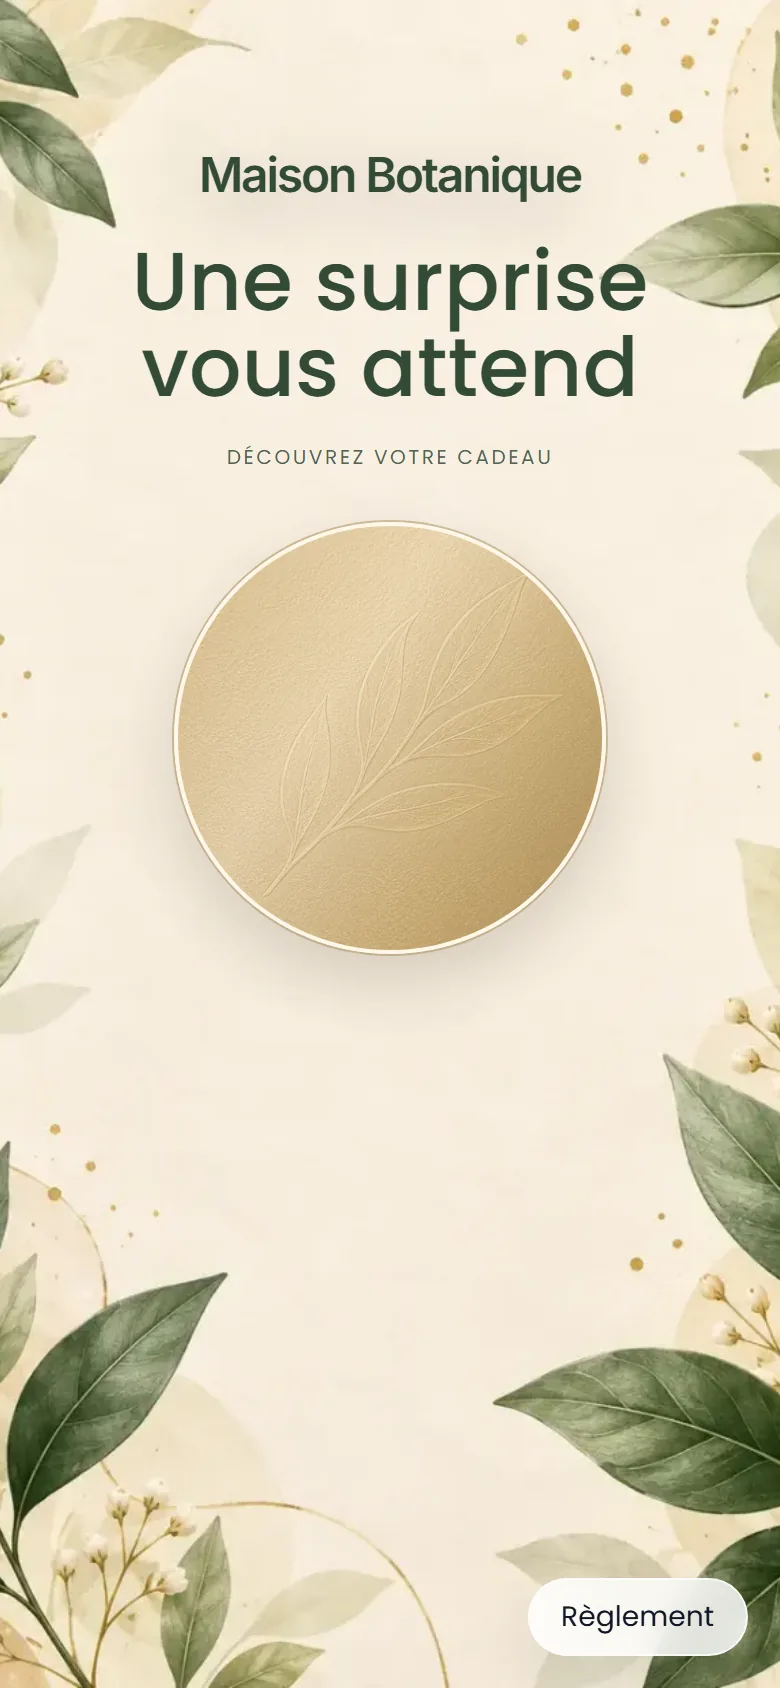
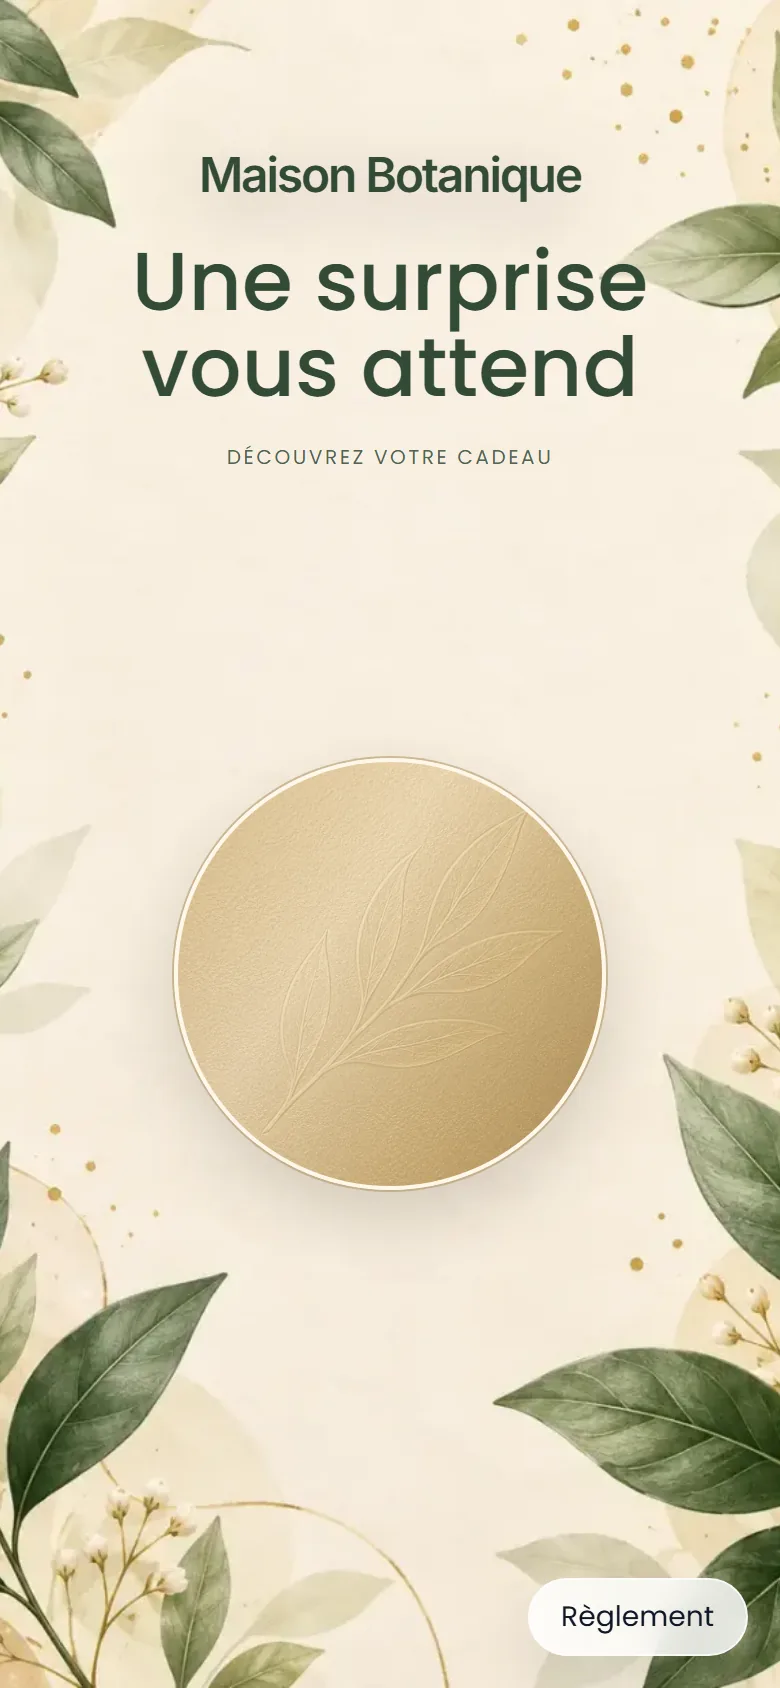
Center scratch ticket layouts and refresh retail example

Changed region(s): [[0.2154, 0.3081, 0.8, 0.7393]]

diff --git a/apps/web-app/src/components/public/immersive-scratch-ticket.tsx b/apps/web-app/src/components/public/immersive-scratch-ticket.tsx
@@ -368,8 +368,8 @@ export function ImmersiveScratchTicket({
     };
   }
 
-  const rootClass = beautyTheme
-    ? `flex flex-col bg-transparent px-6 pb-8 ${fitContainer ? "pt-2" : "pt-[76px]"}`
+  const rootClass = `flex flex-col pb-8 ${fitContainer ? "pt-2" : "pt-[76px]"} ${beautyTheme
+    ? "bg-transparent px-6"
     : isVault || isConfetti
     ? "bg-transparent px-5"
     : isLilac
@@ -378,18 +378,18 @@ export function ImmersiveScratchTicket({
         ? "bg-transparent px-5"
         : isSunburst
           ? "bg-transparent px-0"
-          : "bg-[#111936] px-5";
+          : "bg-[#111936] px-5"}`;
 
   return (
     <div
-    className={`mx-auto w-full ${fitContainer ? "max-w-full" : "max-w-[370px]"} ${beautyTheme ? "flex flex-1 flex-col" : ""}`}
-      style={beautyTheme ? { containerType: "inline-size" } : undefined}
+      className={`mx-auto flex w-full flex-1 flex-col ${fitContainer ? "max-w-full" : "max-w-[370px]"}`}
+      style={{ containerType: "inline-size" }}
     >
       <div
-        className={`relative isolate overflow-hidden ${rootClass} ${beautyTheme ? "flex-1" : ""}`}
-        style={beautyTheme ? { minHeight: fitContainer ? "min(844px, 212cqw)" : "min(100svh, 212cqw)" } : undefined}
+        className={`relative isolate flex-1 overflow-hidden ${rootClass}`}
+        style={{ minHeight: fitContainer ? "min(844px, 212cqw)" : "min(100svh, 212cqw)" }}
       >
-        <div className={`relative z-10 ${headingAlignmentClass}`}>
+        <div className={`relative z-10 shrink-0 ${headingAlignmentClass}`}>
           {logoMode !== "none" ? (
             <div className={`flex ${logoAlignmentClass}`} style={{ marginBottom: `${Math.max(0, logoBottomSpacingPx)}px` }}>
               <BrandMark
@@ -405,7 +405,7 @@ export function ImmersiveScratchTicket({
             </div>
           ) : null}
           <h2
-            className={`${beautyTheme ? "mx-auto max-w-[11ch]" : ""} text-2xl leading-[1.04] ${resolvedHeadingFontClass}`}
+            className={`${beautyTheme || isConfetti ? "mx-auto max-w-[11ch]" : ""} text-2xl leading-[1.04] ${resolvedHeadingFontClass}`}
             style={{ color: ink, fontSize: headingFontSize, fontWeight: headingFontWeight }}
           >
             {displayHeadline}
@@ -421,9 +421,12 @@ export function ImmersiveScratchTicket({
         </div>
 
         <div
+          className="relative z-10 flex flex-1 items-center justify-center"
+          style={{ paddingTop: `${Math.max(0, textToScratchSpacingPx)}px`, paddingBottom: fitContainer ? "16cqw" : "clamp(32px, 8svh, 72px)" }}
+        >
+        <div
           data-testid="scratch-ticket-surface"
-          className={`relative z-10 overflow-hidden ${surfaceClass} ${beautyTheme ? `${surfaceRimClass} shadow-[0_14px_34px_rgba(55,42,30,.18)]` : "rounded-[26px]"}`}
-          style={{ marginTop: `${Math.max(0, textToScratchSpacingPx)}px` }}
+          className={`relative shrink-0 overflow-hidden ${surfaceClass} ${beautyTheme ? `${surfaceRimClass} shadow-[0_14px_34px_rgba(55,42,30,.18)]` : "rounded-[26px] shadow-[0_18px_40px_rgba(55,42,30,.16)]"}`}
         >
           {!revealed && !hasTouched ? (
             <div
@@ -498,7 +501,7 @@ export function ImmersiveScratchTicket({
             </div>
           )}
         </div>
-
+        </div>
       </div>
     </div>
   );

diff --git a/apps/landing-page/src/lib/marketing-examples.ts b/apps/landing-page/src/lib/marketing-examples.ts
@@ -1,18 +1,29 @@
+import type { StaticImageData } from "next/image";
+import nudeElegance from "../../public/images/game-nude-elegance.webp";
+import botanique from "../../public/images/game-botanique.webp";
+import noirOrTicket from "../../public/images/game-noir-or-ticket.webp";
+import lilas from "../../public/images/game-lilas.webp";
+import beautyPop from "../../public/images/game-beauty-pop.webp";
+import noirOrWheel from "../../public/images/game-noir-or-wheel.webp";
+import nudeWheel from "../../public/images/game-nude-wheel.webp";
+import restaurant from "../../public/images/game-restaurant.webp";
+import commerce from "../../public/images/game-commerce.webp";
+
 // These images are captures of the real Okado preview renderer with synthetic data.
 // Template IDs/names match the product; examples are not customer campaigns.
 export const gameModels = [
-  { id: "beauty-scratch-nude", name: "Nude Élégance", type: "Ticket à gratter", image: "game-nude-elegance" },
-  { id: "beauty-scratch-botanical", name: "Botanique Premium", type: "Ticket à gratter", image: "game-botanique" },
-  { id: "beauty-scratch-noir-or", name: "Noir & Or Signature", type: "Ticket à gratter", image: "game-noir-or-ticket" },
-  { id: "beauty-scratch-lilas", name: "Lilas Soin Doux", type: "Ticket à gratter", image: "game-lilas" },
-  { id: "beauty-pop", name: "Beauty Pop", type: "Roue de la fortune", image: "game-beauty-pop" },
-  { id: "beauty-editorial", name: "Noir & Or", type: "Roue de la fortune", image: "game-noir-or-wheel" },
+  { id: "beauty-scratch-nude", name: "Nude Élégance", type: "Ticket à gratter", image: nudeElegance },
+  { id: "beauty-scratch-botanical", name: "Botanique Premium", type: "Ticket à gratter", image: botanique },
+  { id: "beauty-scratch-noir-or", name: "Noir & Or Signature", type: "Ticket à gratter", image: noirOrTicket },
+  { id: "beauty-scratch-lilas", name: "Lilas Soin Doux", type: "Ticket à gratter", image: lilas },
+  { id: "beauty-pop", name: "Beauty Pop", type: "Roue de la fortune", image: beautyPop },
+  { id: "beauty-editorial", name: "Noir & Or", type: "Roue de la fortune", image: noirOrWheel },
 ] as const;
 
-export type GameModel = { id: string; name: string; type: string; image: string };
-export const heroModel: GameModel = { id: "beauty-nude", name: "Nude & Or", type: "Roue de la fortune", image: "game-nude-wheel" };
-export const restaurantModel: GameModel = { id: "classic", name: "Classique", type: "Roue de la fortune", image: "game-restaurant" };
-export const commerceModel: GameModel = { id: "scratch-confetti", name: "Confetti", type: "Ticket à gratter", image: "game-commerce" };
+export type GameModel = { id: string; name: string; type: string; image: StaticImageData };
+export const heroModel: GameModel = { id: "beauty-nude", name: "Nude & Or", type: "Roue de la fortune", image: nudeWheel };
+export const restaurantModel: GameModel = { id: "classic", name: "Classique", type: "Roue de la fortune", image: restaurant };
+export const commerceModel: GameModel = { id: "scratch-confetti", name: "Confetti", type: "Ticket à gratter", image: commerce };
 
 export const beautySpecialties = [
   { id: "nails", label: "Ongles", model: gameModels[3], title: "Une petite attention en plus de la pose.",

diff --git a/apps/web-app/e2e/game-screen-layout.spec.ts b/apps/web-app/e2e/game-screen-layout.spec.ts
@@ -86,7 +86,7 @@ test("game screens marketing : captures joueur réelles sur données synthétiqu
     "beauty-editorial": "#f2e4c5",
     "beauty-nude": "#48382b",
     classic: "#ffffff",
-    "scratch-confetti": "#ffffff",
+    "scratch-confetti": "#3c3045",
   };
   const wheelButtons: Partial<Record<(typeof models)[number][0], { background: string; text: string }>> = {
     "beauty-pop": { background: "#c52f68", text: "#fff7fa" },
@@ -99,10 +99,22 @@ test("game screens marketing : captures joueur réelles sur données synthétiqu
       const ink = encodeURIComponent(headingColors[template]);
       const button = wheelButtons[template];
       const buttonQuery = button ? `&button=${encodeURIComponent(button.background)}&buttonText=${encodeURIComponent(button.text)}` : "";
-      await page.goto(`/dev/template-rendering-proof?mode=live&template=${template}&business=${business}&ink=${ink}${buttonQuery}`);
+      const backgroundQuery = business === "retail" ? "&background=studio" : "";
+      await page.goto(`/dev/template-rendering-proof?mode=live&template=${template}&business=${business}&ink=${ink}${buttonQuery}${backgroundQuery}`);
       await page.addStyleTag({ content: "nextjs-portal { display: none !important; }" });
       const surface = page.locator(".okado-public-experience");
       await expect(surface.locator(template.includes("scratch") ? "h2" : "h1")).toBeVisible();
+      if (template.includes("scratch")) {
+        const ticket = surface.getByTestId("scratch-ticket-surface");
+        const foil = ticket.locator("canvas");
+        if (await foil.getAttribute("data-foil-texture")) await expect(foil).toHaveAttribute("data-foil-loaded", "true");
+        const ticketBox = (await ticket.boundingBox())!;
+        const surfaceBox = (await surface.boundingBox())!;
+        const centerY = (ticketBox.y + ticketBox.height / 2 - surfaceBox.y) / surfaceBox.height;
+        expect(centerY, `${template}: scratch area sits near the middle of the phone`).toBeGreaterThanOrEqual(0.48);
+        expect(centerY).toBeLessThanOrEqual(0.64);
+        expect(Math.abs(ticketBox.x + ticketBox.width / 2 - surfaceBox.x - surfaceBox.width / 2)).toBeLessThan(2);
+      }
       if (!template.includes("scratch")) {
         const title = surface.locator("h1");
         const wheel = surface.getByTestId("game-wheel-frame");

diff --git a/apps/web-app/e2e/fixtures/template-rendering.tsx b/apps/web-app/e2e/fixtures/template-rendering.tsx
@@ -51,6 +51,7 @@ export function TemplateRenderingProof({ mode = "preview", templateId = "classic
   const scratch = templateId.includes("scratch");
   const businessNames = { beauty: "Maison Botanique", restaurant: "Le bistro", retail: "La petite boutique" };
   const companyName = businessNames[business as keyof typeof businessNames] ?? "Établissement de test";
+  const backgroundImage = background === "image" ? "/backgrounds/aurora-retail.svg" : background === "studio" ? "/backgrounds/soft-studio.svg" : "";
   const industry = business === "retail" || mode.includes("-retail") ? "Commerce" : business === "restaurant" ? "Restauration" : "Beauté";
   const merchant: Merchant = { id: "template-proof-merchant", companyName,
     logoText: companyName, industry, onboardingCompleted: true, createdAt: "2026-10-15T00:00:00Z" };
@@ -67,11 +68,11 @@ export function TemplateRenderingProof({ mode = "preview", templateId = "classic
         ...(button ? { backgroundColor: button } : {}),
         ...(buttonText ? { textColor: buttonText } : {}),
       },
-      background: { mode: background === "image" ? "image" as const : "color" as const,
-        color: background === "image" ? "#ffffff" : background,
-        imageUrl: background === "image" ? "/backgrounds/aurora-retail.svg" : "" },
+      background: { mode: backgroundImage ? "image" as const : "color" as const,
+        color: backgroundImage ? "#ffffff" : background,
+        imageUrl: backgroundImage },
       logo: { ...halloweenFixture.presentation.logo, textColor: color, marginBottomPx: 20 },
-      heading: { ...halloweenFixture.presentation.heading, textColor: color, fontSizePx: 40, fontFamily: font ?? "poppins" as const },
+      heading: { ...halloweenFixture.presentation.heading, textColor: color, fontSizePx: business === "retail" ? 34 : 40, fontFamily: font ?? "poppins" as const },
       wheel: wheelPaletteForTemplate(templateId, halloweenFixture.presentation.wheel),
       layout: { ...halloweenFixture.presentation.layout, templateId, blockSpacingPx: 25,
         scratchSubtitle: "Découvrez votre cadeau", wheelSubtitle: secondary ?? "" },

diff --git a/apps/landing-page/src/components/marketing/game-preview.tsx b/apps/landing-page/src/components/marketing/game-preview.tsx
@@ -5,7 +5,7 @@ import styles from "./showcase.module.css";
 export function GamePreview({ model, eager = false }: { model: GameModel; eager?: boolean }) {
   return (
     <div className={styles.phone}>
-      <Image src={`/images/${model.image}.webp`} width={780} height={1688}
+      <Image src={model.image}
         alt={`Rendu Okado du modèle ${model.name} — ${model.type}, exemple fictif`}
         sizes="(min-width: 768px) 240px, 210px" loading={eager ? "eager" : "lazy"}
         fetchPriority={eager ? "high" : undefined} />

diff --git a/docs/PRODUCT.md b/docs/PRODUCT.md
@@ -227,7 +227,7 @@ L'inscription par formulaire demande uniquement l'acceptation des CGV dans une c
 - Le fond par défaut de **Bicolore** suit la couleur principale de la roue, et non la couleur secondaire jaune. Un ancien fond standard est résolu à l'affichage ; une image manuelle ou une couleur de fond personnalisée distincte reste prioritaire. Les changements de couleur principale suivent le fond standard dans les deux éditeurs.
 - **Dynamique** et **Signature** conservent les retours à la ligne explicites de la promesse, sans appliquer le découpage automatique des autres roues. Le rendu est commun au jeu et à ses prévisualisations.
 - Les tickets à gratter n'affichent plus de phrase d'aide sous la zone à gratter, y compris « Le résultat s'affiche automatiquement. ». Le titre, le sous-titre personnalisable, les espacements avant la zone, le geste de grattage et le résultat restent inchangés.
-- Toutes les surfaces de grattage sont contenues à 70 % de la largeur (maximum 216 px). Le titre, la consigne au-dessus, le geste, le résultat et les dimensions sauvegardées de la campagne ne changent pas.
+- Toutes les surfaces de grattage sont contenues à 70 % de la largeur (maximum 216 px) et centrées dans l'espace disponible sous le titre et la consigne. L'espacement configuré reste une distance minimale avant la zone. Le geste, le résultat et les dimensions sauvegardées de la campagne ne changent pas.
 - **Cadeau lilas** utilise son encre prune foncée `#210b32` pour le logo et les textes par défaut. Le bleu historique hérité `#003cb4` est traité comme un ancien défaut, au même titre que les anciennes encres du modèle. Les autres couleurs personnalisées et les styles propres mémorisés sont conservés. La correction porte sur la lecture/sélection et le rendu ; aucune réécriture de campagne en base.
 
 ## Mesure d'usage — #508

diff --git a/docs/TEST_STRATEGY.md b/docs/TEST_STRATEGY.md
@@ -223,7 +223,8 @@ couvertes par `product-proof.spec.ts`.
 Complément #605 : les neuf captures de modèles sont rendues à 390×844 CSS px,
 au facteur 2, sans le portail indicateur Next.js dans la capture seulement.
 Les tests vérifient les dimensions intrinsèques, les centres de roue assortis
-aux modèles et les zones de grattage contenues (216 px maximum, tous modèles)
+aux modèles, les zones de grattage contenues (216 px maximum, tous modèles)
+et leur centrage horizontal et vertical dans les captures de téléphone
 sur les neuf tickets, en public, aperçu et jeu-prévisualisation.
 
 ### Qualité du funnel d'acquisition — #507
